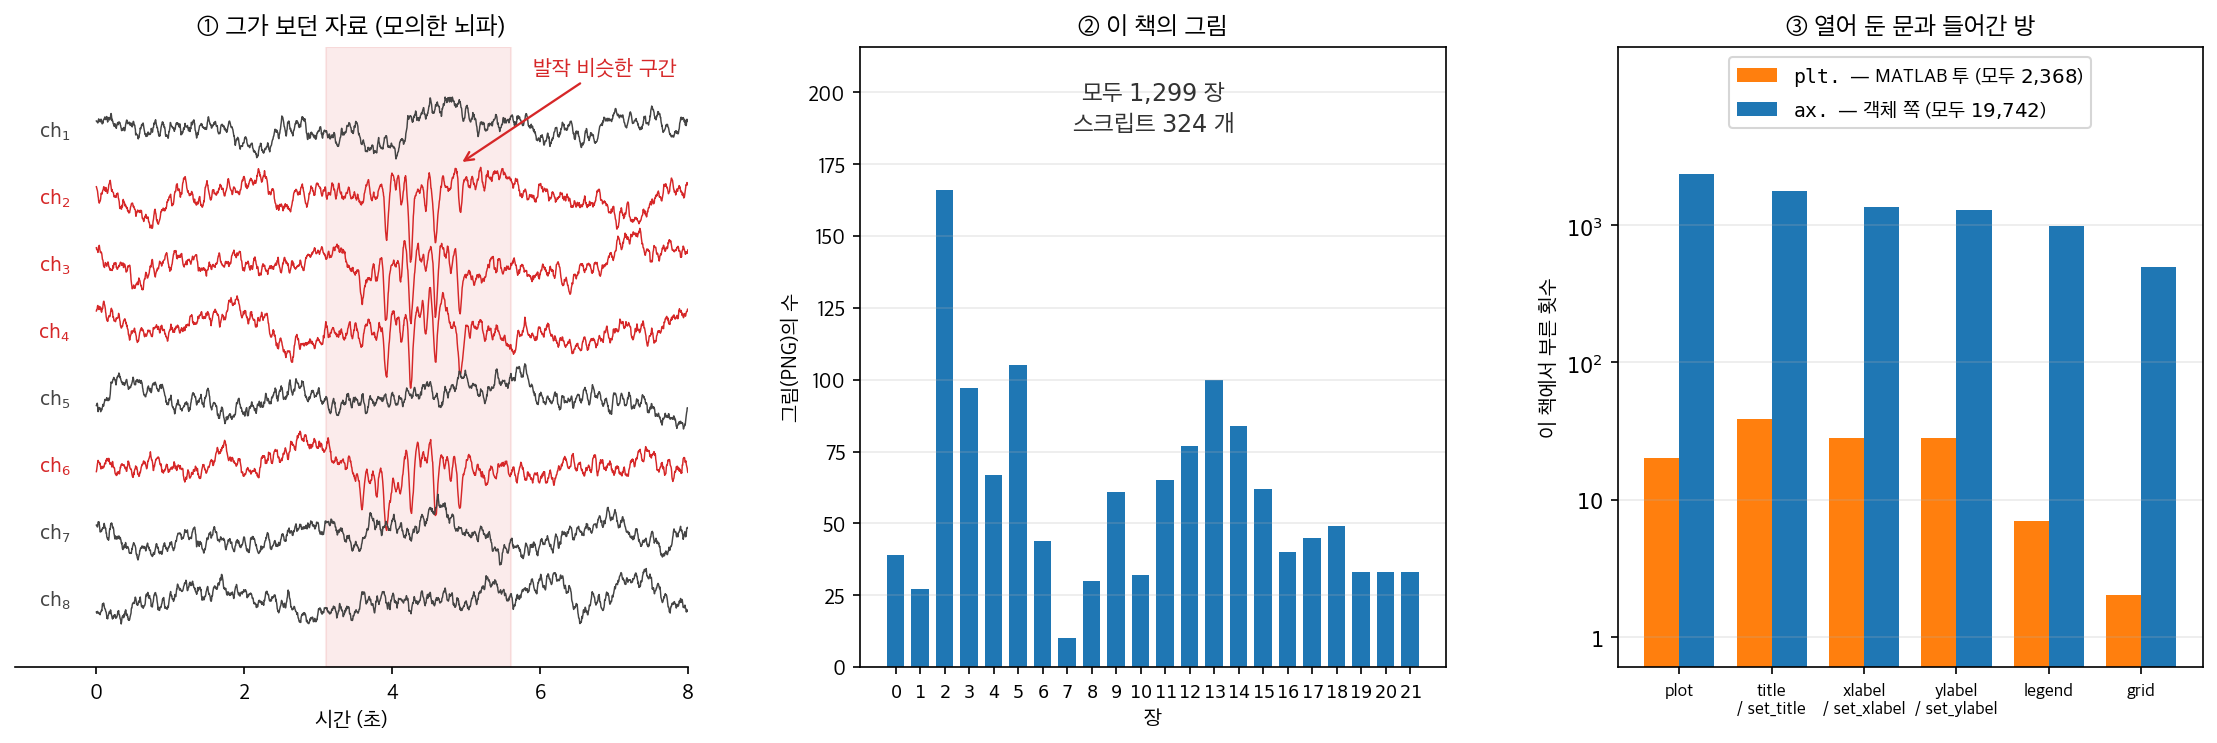
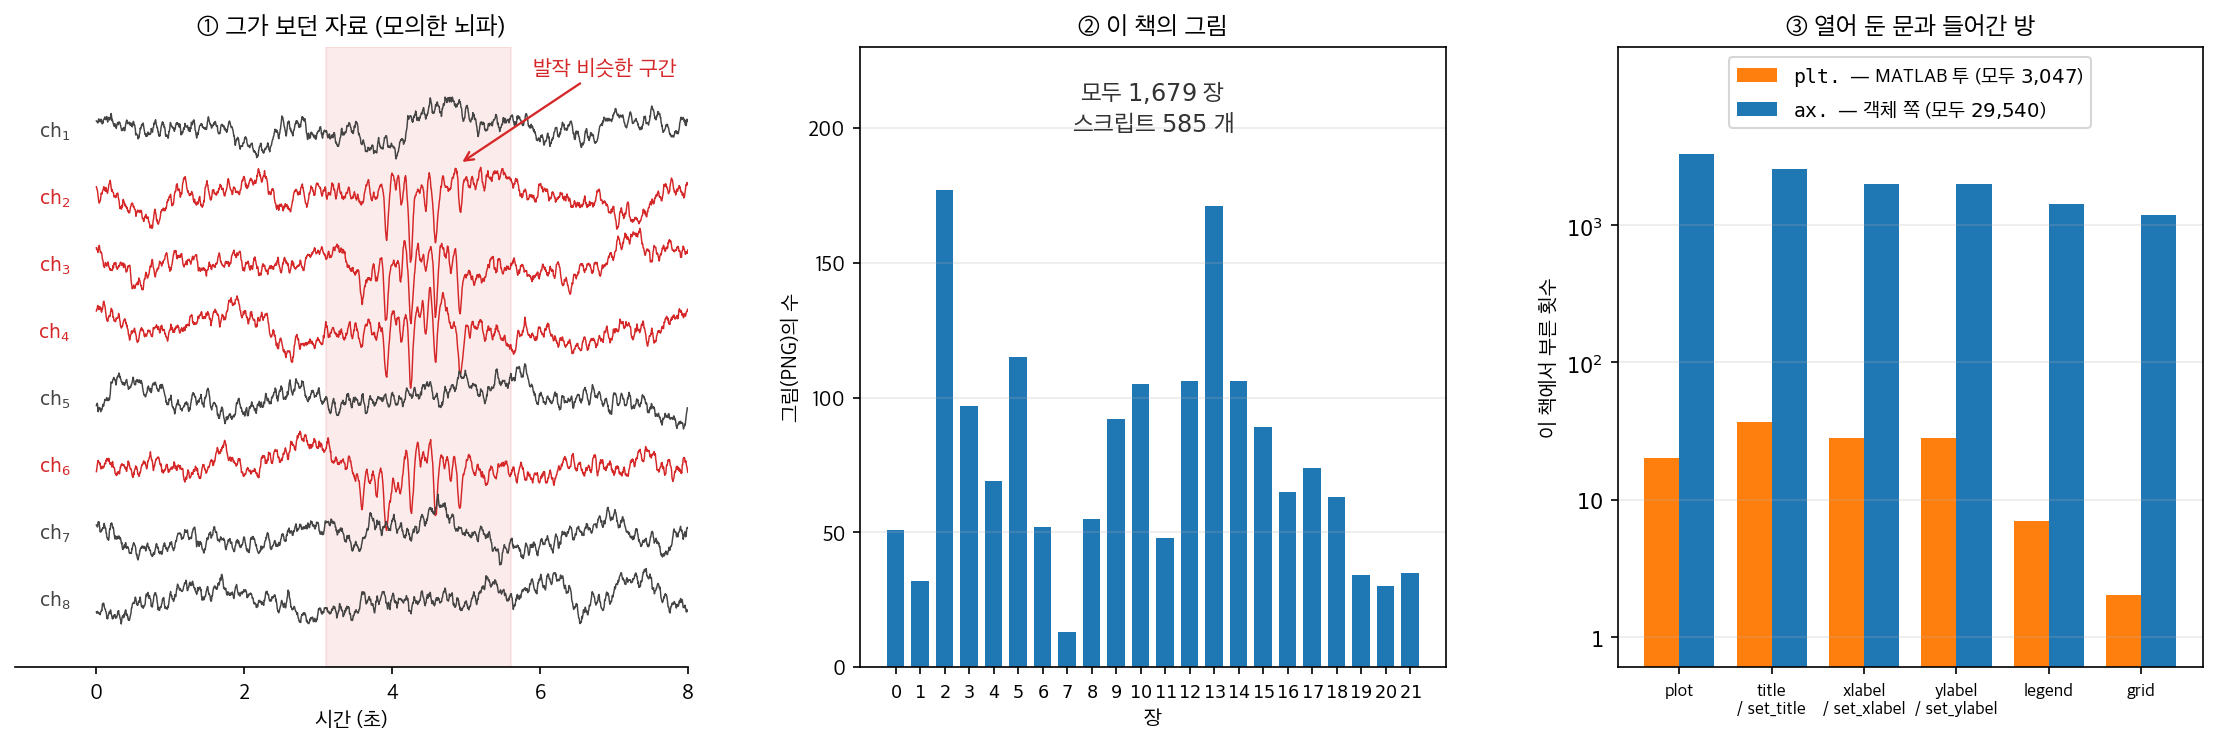
fix(ch00): 보고만 해 두었던 항목을 마무리한다
둘째 정독 패스가 고치지 않고 남긴 항목을 하나씩 판정해 끝냈다. 이미 닫힌 것과 보고가
틀린 것은 건드리지 않았고, 펜스를 고친 쪽은 실제로 돌린 출력을 붙여 verify_outputs 로
맞췄다. 그림을 다시 그린 것은 스크립트와 함께 담았다. 바깥 사실은 확인한 출처로만 고쳤다.

diff --git a/docs/ch00/tools/matplotlib_basics.md b/docs/ch00/tools/matplotlib_basics.md
@@ -83,21 +83,21 @@ Matplotlib에는 두 개의 인터페이스가 있다.
 **프로그램 안에** 띄워야 하고, 그래서 「응용프로그램에 끼워 넣을 수 있을 것」이 요구 조건
 셋째였다.
 
-**②**는 지금 이 책이다. 그림 $1{,}299$ 장을 스크립트 $324$ 개가 그린다. 한 장도
+**②**는 지금 이 책이다. 그림 $1{,}679$ 장을 스크립트 $585$ 개가 그린다. 한 장도
 빠짐없이 그가 만든 것으로 그렸다.
 
 **③**은 위 문단의 약속 — 「이 책은 객체지향 형태만 쓴다」 — 을 실제로 세어 본 것이다.
 
 | | `plt.` 쪽 | `ax.`·`fig.` 쪽 |
 |---|---|---|
-| 모두 | $2{,}368$ | $19{,}742$ |
-| 선 그리기 | $20$ | $2{,}368$ |
-| 제목 | $39$ | $1{,}794$ |
-| 가로 이름표 | $28$ | $1{,}359$ |
+| 모두 | $3{,}047$ | $29{,}540$ |
+| 선 그리기 | $20$ | $3{,}321$ |
+| 제목 | $37$ | $2{,}585$ |
+| 가로 이름표 | $28$ | $2{,}016$ |
 
-객체 쪽이 $8.3$ 배이고, 남은 `plt.` 호출의 **$90.0\%$ 가 틀을 만들고 닫는 것**이다
-(`subplots` $1{,}082$ · `show` $477$ · `close` $259$ · `tight_layout` $254$ ·
-`figure` $60$). 약속이 대체로 지켜졌다 — 위 문단이 적은 셋 말고 `close`·
+객체 쪽이 $9.7$ 배이고, 남은 `plt.` 호출의 **$92.6\%$ 가 틀을 만들고 닫는 것**이다
+(`subplots` $1{,}458$ · `tight_layout` $483$ · `show` $459$ · `close` $353$ ·
+`figure` $67$). 약속이 대체로 지켜졌다 — 위 문단이 적은 셋 말고 `close`·
 `tight_layout`·`figure` 도 섞여 있고, `plt.plot` $20$ 군데처럼 빠진 자리가 조금 남아 있다.
 
 읽을 것은 비율이 아니라 **구조**다. 열어 둔 앞문으로 들어와 안쪽 방에서 일한다 —
@@ -387,6 +387,9 @@ DataFrame은 Matplotlib을 감싼 자체 그림 메서드를 갖고 있다.
     w = stats.ttest_ind(df.loc[df["group"] == "A", "value"],
                         df.loc[df["group"] == "B", "value"], equal_var=False)
     print(f"웰치 t = {w.statistic:.2f}, p = {w.pvalue:.2f}")
+    cnt, edges = np.histogram(df["x"], bins=30)       # 왼쪽 히스토그램과 같은 구간
+    print(f"x 범위 = [{df['x'].min():.2f}, {df['x'].max():.2f}], "
+          f"가장 높은 막대 = {cnt.max()}개")
 
     # ax= 로 그릴 자리를 지정하면 pandas 가 그 Axes 위에 그린다.
     # 이렇게 해야 여러 패널을 한 그림에 모을 수 있다.
@@ -409,6 +412,7 @@ DataFrame은 Matplotlib을 감싼 자체 그림 메서드를 갖고 있다.
     x 와 y 의 상관     = -0.065
     x 와 value 의 상관 = 0.895
     웰치 t = 0.81, p = 0.42
+    x 범위 = [-2.40, 2.00], 가장 높은 막대 = 18개
     ```
 
     ![pandas의 그림 메서드 세 가지](./img/matplotlib_basics_68.png)
@@ -828,7 +832,7 @@ $N(5, 4)$(평균 5, 분산 4)에서 뽑은 표본 1000개의 정규화된 히스
 
     **통계에서 쓰는 곳.**
 
-    - 오른쪽으로 심하게 치우친 자료(소득, 도시 인구, 파일 크기)는 로그 척도에서 대칭에 가까워진다. 로그변환을 하는 근거가 여기 있다.
+    - 오른쪽 왜도(skewness)가 심한 자료(소득, 도시 인구, 파일 크기)는 로그 척도에서 대칭에 가까워진다. 로그변환을 하는 근거가 여기 있다.
     - 생존분석에서 로그 척도의 생존곡선이 직선이면 지수분포(exponential distribution)를 뜻한다.
     - $p$ 값이나 가능도비(likelihood ratio)처럼 자릿수가 여러 개에 걸치는 값은 로그 척도가 사실상 필수다.
 

diff --git a/docs/ch00/linalg_regression/square_matrices/trace_eigenvalues.md b/docs/ch00/linalg_regression/square_matrices/trace_eigenvalues.md
@@ -315,8 +315,9 @@ $$
 $n$ 이 백 배가 되어도 같다. 상대오차를 정하는 것은 $n$ 이 아니라
 $\lVert\mathbf{A}\rVert_F / \operatorname{tr}(\mathbf{A})$ 와 $m$ 이기 때문이고,
 정리 2 로 읽으면 이 비는 **고윳값이 몇 방향에 몰려 있는지**를 재는 수다. 한두
-방향에 몰려 있으면 크고, 여러 방향에 고루 퍼져 있으면 작다. 그리고 **못 만들 만큼
-큰 행렬은 대개 뒤쪽이다** — 이 수법은 필요한 바로 그 자리에서 가장 잘 듣는다.
+방향에 몰려 있으면 크고, 여러 방향에 고루 퍼져 있으면 작다. 그리고 **행렬의 크기는
+이 비에 들어 있지 않다** — 고윳값이 고루 퍼져 있기만 하면 못 만들 만큼 큰 행렬에서도
+같은 탐침 수로 족하다. 이 수법은 필요한 바로 그 자리에서 쓸 수 있다.
 
 **이것이 새 기법이 아니라는 점이 재미있다.** $\S 5$ 의 두 번째 항목은 모자 행렬의
 대각합이 유효 모수 개수라고 적는다. 이 추정량을 처음 적어 둔 허친슨($1989$)의 논문
@@ -689,7 +690,7 @@ $\mathbf{Y} = \mathbf{A}\mathbf{X}$일 때 $\operatorname{tr}(\operatorname{Var}
 
     $\lambda = 0$이면 $\operatorname{tr} = p = 5$로 보통최소제곱과 같고, $\lambda$가 커질수록 값이 줄어 $\lambda \to \infty$에서 0으로 간다.
 
-    이 값을 **유효자유도**라 부른다. 능형회귀는 모수를 $5$개 그대로 두지만 벌점이 각 방향을 $d_j^2/(d_j^2+\lambda)$만큼 축소하므로, 모형이 실제로 쓰는 자유도는 그보다 작다. 특이값이 작은 방향(공선성이 심한 방향)일수록 더 강하게 축소된다는 점도 식에서 바로 읽힌다. 18장에서 이 양이 모형 선택 기준에 쓰인다. $\square$
+    이 값을 **유효자유도**라 부른다. 능형회귀는 모수를 $5$개 그대로 두지만 벌점이 각 방향을 $d_j^2/(d_j^2+\lambda)$만큼 축소하므로, 모형이 실제로 쓰는 자유도는 그보다 작다. 특이값이 작은 방향(공선성이 심한 방향)일수록 더 강하게 축소된다는 점도 식에서 바로 읽힌다. 18장 [능형 자취와 λ 선택](../../../ch18/ridge/lambda_selection.md)에서 이 양이 $\lambda$를 고르는 기준에 쓰인다. $\square$
 
 ---
 

diff --git a/docs/ch00/linalg_regression/square_matrices/orthogonal_projection.md b/docs/ch00/linalg_regression/square_matrices/orthogonal_projection.md
@@ -540,6 +540,10 @@ $\mathbf{M}_1 = \mathbf{I} - \mathbf{H}_1$을 $\mathbf{X}_1$에 대한 잔차생
     print("SSR + SSE =", round(ssr + sse, 6))
     print("R^2 = SSR/SST     =", round(ssr / sst, 6))
     print("R^2 = 1 - SSE/SST =", round(1 - sse / sst, 6))
+
+    # 연습문제 3 의 각: 중심화한 두 벡터 사이 각의 코사인을 내적으로 직접 구한다
+    cos_t = (yt @ yt_hat) / np.sqrt((yt @ yt) * (yt_hat @ yt_hat))
+    print("cos^2(theta)      =", round(cos_t ** 2, 6))
     ```
 
     출력:
@@ -558,9 +562,10 @@ $\mathbf{M}_1 = \mathbf{I} - \mathbf{H}_1$을 $\mathbf{X}_1$에 대한 잔차생
     SSR + SSE = 121.938838
     R^2 = SSR/SST     = 0.85143
     R^2 = 1 - SSE/SST = 0.85143
+    cos^2(theta)      = 0.85143
     ```
 
-    네 성질이 모두 확인된다. 잔차와 적합값의 내적은 반올림 오차 수준에서 0이고, 피타고라스 분해는 원점 기준($158.337856$)과 평균 기준($121.938838$) 양쪽에서 모두 성립한다.
+    네 성질이 모두 확인되고, 중심화한 두 벡터 사이 각에서 직접 구한 $\cos^2\theta$도 $R^2$과 같은 $0.85143$이다. 잔차와 적합값의 내적은 반올림 오차 수준에서 0이고, 피타고라스 분해는 원점 기준($158.337856$)과 평균 기준($121.938838$) 양쪽에서 모두 성립한다.
 
     **두 $R^2$이 다르다.** 원점 기준 값은 $0.885583$이고 보고되는 통상의 $R^2$은 $0.851430$이다. 차이는 $\bar{y} = 1.1015$ 때문이다. $\lVert\mathbf{y}\rVert^2 = \text{SST} + n\bar{y}^2 = 121.938838 + 30 \times 1.1015^2 = 158.34$에서 보듯, 원점 기준 비는 **절편이 공짜로 맞히는 평균 수준까지 설명력으로 세는** 셈이다. $R^2$을 보고할 때는 $\mathbf{1}$ 위로의 사영을 먼저 걷어낸 중심화된 쪽을 쓴다. $\square$
 

diff --git a/docs/ch00/math/limits.md b/docs/ch00/math/limits.md
@@ -248,7 +248,7 @@ $$
   <figcaption markdown>『악타 에루디토룸』 $1690$ 년 $5$ 월호 $222$ 쪽. 가운데 급수 아래 줄에 「$a=20$, $b=1$ 이면 한 해 뒤 $21\frac1{40}$ 보다 크고 $21\frac1{39}$ 보다 작다」가, 이어서 「$a=b$ 이면 $2\frac12 a$ 보다 크고 $3a$ 보다 작다」가 인쇄되어 있다. *(Wikimedia Commons, PD-old-100-expired)*</figcaption>
 </figure>
 
-위 표의 둘째 줄에 적힌 $e$ 는 어디서 왔는가. 원금 $A$ 에 이자를 **한 해에 한 번** 붙이면 잔액에 $(1+i)$ 가 해마다 한 번씩 곱해져 $n$ 년 뒤가 $A(1+i)^{n}$ 이다. 그렇다면 한 해에 두 번, 열두 번, 날마다 붙이면 어떻게 되는가. 이 물음을 끝까지 밀어붙인 쪽이 위의 사진이다.
+위 표의 둘째 줄에 적힌 $e$ 는 어디서 왔는가. 원금 $A$ 에 이자를 **한 해에 한 번** 붙이면 잔액에 $(1+i)$ 가 해마다 한 번씩 곱해져 $t$ 년 뒤가 $A(1+i)^{t}$ 이다. 그렇다면 한 해에 두 번, 열두 번, 날마다 붙이면 어떻게 되는가. 이 물음을 끝까지 밀어붙인 쪽이 위의 사진이다.
 
 $1690$ 년 $5$ 월 라이프치히에서 나온 학술지 『악타 에루디토룸』에 바젤의 **야코프 베르누이**가 「이자에 관한 몇 가지 물음」(*Quaestiones nonnullae de usuris*)을 실었다. 그 $222$ 쪽에서 그는 이렇게 묻는다 — 돈을 빌려 주되 **매 순간** 한 해 이자의 비례분을 원금에 얹기로 하면, 한 해가 끝날 때 얼마를 받는가. 원금을 $a$, 한 해 이자를 $b$ 라 두고 답을 무한급수로 펼친 다음, 그 급수를 등비급수와 견주어 위아래에서 막았다. 바로 앞 상자의 기하급수가 막는 도구로 쓰인 자리다.
 

diff --git a/docs/ch00/tools/pandas_basics.md b/docs/ch00/tools/pandas_basics.md
@@ -433,7 +433,7 @@ pandas에서 가장 강력한 하나의 패턴이다.
 > **「나는 $2008$ 년 $4$ 월에 팬더스를 만들기 시작했다. 그것은 주로 밤과 주말에 내가
 > 개발한 뒷방 작업으로 시작되었다.」**
 
-그러고는 자기가 만든 것의 내부를 열한 가지로 흠잡는데, 그 가운데 「메모리 사용과 램
+그러고는 자기가 만든 것의 내부를 열한 가지로 흠잡는데(제목은 열 가지지만 그 자신이 「열 가지, 실은 열한 가지」라 적어 둔다), 그 가운데 「메모리 사용과 램
 관리에 대한 투명성 부족」을 두고 근사를 하나 적는다.
 
 > **「팬더스에 대한 내 근사는, 자료 크기의 $5$ 배에서 $10$ 배에 해당하는 램을 갖고
@@ -467,7 +467,7 @@ _확인한 곳 — Wes McKinney, *Apache Arrow and the "10 Things I Hate About p
 ($2017$, wesmckinney.com). 인용한 두 문장($2008$ 년 $4$ 월에 밤과 주말의 뒷방 작업으로
 시작했다는 것, 자료 크기의 $5$–$10$ 배 램이라는 근사)과 $10$ GB 자료에 $64$–$128$ GB 를
 든 예, 그리고 그가 꼽은 흠 가운데 「메모리 사용과 램 관리에 대한 투명성 부족」이 거기
-있다. 팬더스라는 이름의 유래는 확인하지 못해 적지 않았다. 그림과 표의 수는 모두 직접
+있다. 흠을 「The 10 (really 11) things」라 적고 열한 개를 늘어놓는 것도 같은 글에서 확인했다. 팬더스라는 이름의 유래는 확인하지 못해 적지 않았다. 그림과 표의 수는 모두 직접
 재어 계산한 값이며, ②의 상주 메모리는 기계와 할당기에 따라 달라진다_
 
 </div>

diff --git a/docs/ch00/math/linear_algebra.md b/docs/ch00/math/linear_algebra.md
@@ -599,7 +599,7 @@ $\operatorname{Cov}(\mathbf{A}\mathbf{X}) = \mathbf{A}\,\operatorname{Cov}(\math
 
     동일가중 포트폴리오의 표준편차 $0.1758$은 개별 표준편차의 평균 $0.3$보다 훨씬 작다. **이것이 분산투자다.** 비대각 성분이 작거나 음수라서 포트폴리오 표준편차 $\sqrt{\mathbf{w}^\top\boldsymbol{\Sigma}\mathbf{w}}$가 개별 표준편차의 가중평균보다 작아지는 것이다. 상관이 모두 $1$이면 둘이 같아진다.
 
-    최소분산 포트폴리오는 여기서 더 나아가 $0.1563$까지 낮추는데, 변동성이 가장 낮은 첫 자산에 가장 큰 비중($0.57$)을 준다. 상관이 완전하다면($\rho = 1$) 비대각 성분이 커져 이런 이득이 사라진다. 위기 때 상관이 $1$로 몰리면서 분산투자 효과가 증발하는 현상이 바로 이 계산에 들어 있다.
+    최소분산 포트폴리오는 여기서 더 나아가 $0.1563$까지 낮추는데, 변동성이 가장 낮은 첫 자산에 가장 큰 비중($0.57$)을 준다. 공매도 없이 비중을 모두 양수로 두는 한, 상관이 완전하다면($\rho = 1$) 비대각 성분이 커져 이런 이득이 사라진다(공매도를 허용하면 $\boldsymbol{\Sigma}$가 특이해져 분산을 $0$까지 낮추는 조합이 생기지만, 그것은 분산투자가 아니라 헤지다). 위기 때 상관이 $1$로 몰리면서 분산투자 효과가 증발하는 현상이 바로 이 계산에 들어 있다.
 
 <div class="drillbox" markdown>
 

diff --git a/docs/index.md b/docs/index.md
@@ -41,10 +41,10 @@
 - 정의, 정리, 주의, 보기는 색이 있는 상자로 구분해 표시한다
 - 그 밖에 **연재 상자**가 둘 있다. 쪽마다 하나 이상 들어 있고, 증명과 문항의 흐름
   **밖에** 놓이므로 건너뛰어도 본문을 따라가는 데 지장이 없다
-    - **「그림으로 보는 통계학」**(호박색·점선 테두리, $401$ 개) --- 바로 위에서 세운
+    - **「그림으로 보는 통계학」**(호박색·점선 테두리, $403$ 개) --- 바로 위에서 세운
       정의나 정리가 **세상에서 어떻게 생겼는지**를 보인다. 그 식이 처음 인쇄된 쪽,
       그것을 적은 사람, 그 수가 실제로 쓰인 자리, 또는 그 주장을 직접 재어 본 결과다
-    - **「AI로 보는 통계학」**(청록색·왼쪽 띠, $224$ 개) --- 같은 식이 오늘 기계를
+    - **「AI로 보는 통계학」**(청록색·왼쪽 띠, $223$ 개) --- 같은 식이 오늘 기계를
       학습시키는 자리에서 어떻게 쓰이는지를 보인다
     - 상자의 번호는 **쪽마다 1 부터 다시 시작한다.** 다른 쪽의 상자를 가리킬 때는
       절과 쪽을 함께 적는다

diff --git a/docs/ch00/linalg_regression/linalg_statistics/chi_squared_quadratic.md b/docs/ch00/linalg_regression/linalg_statistics/chi_squared_quadratic.md
@@ -494,7 +494,7 @@ $\mathbf{z} \sim N(\boldsymbol{\mu}, \boldsymbol{\Sigma})$이고 $\mathbf{A}$가
 
     **이 한 문제에 이 절의 내용이 모두 들어 있다.** $\mathbf{A}$와 $\mathbf{M}$이 대칭 멱등이라 각 이차형식이 카이제곱이 되고(계수 $2$와 $17$), $\mathbf{A}\mathbf{M} = \mathbf{O}$이라 크레이그 정리에 의해 둘이 독립이며, 독립인 두 카이제곱을 자유도로 나눈 비가 $F$ 분포의 정의다.
 
-    $F$ 검정이 성립하려면 세 가지가 모두 필요하다는 점에 유의하라. 정규성(normality, 카이제곱이 되려면), 멱등성(고윳값의 가중합이 카이제곱 하나로 접히려면), 직교성(독립이 되려면). 하나라도 깨지면 $F$ 분포는 근사에 지나지 않는다. $\square$
+    $F$ 검정이 성립하려면 세 가지가 모두 필요하다는 점에 유의하라. 카이제곱이 되려면 정규성(normality)이, 고윳값의 가중합이 카이제곱 하나로 접히려면 멱등성이, 독립이 되려면 직교성이 있어야 한다. 하나라도 깨지면 $F$ 분포는 근사에 지나지 않는다. $\square$
 
 ---
 

diff --git a/docs/ch00/tools/python_basics.md b/docs/ch00/tools/python_basics.md
@@ -850,7 +850,7 @@ def collect(x, acc=[]):
     합은 같은가: True
     ```
 
-    리스트는 $8$ MB를 쓰는데 제너레이터는 $200$ 바이트다. 제너레이터는 값을 저장하지 않고 **다음 값을 만드는 방법**만 들고 있다가 요청받을 때마다 하나씩 내놓는다.
+    리스트는 $8$ MB를 쓰는데 제너레이터는 $200$ 바이트다. 그나마 이 $8$ MB는 `getsizeof`가 리스트 객체 자신, 곧 원소를 가리키는 포인터 배열만 센 값이다. 포인터가 가리키는 정수 객체 백만 개가 따로 원소마다 $28$–$32$ 바이트, 합쳐 약 $32$ MB를 더 쓰므로(`sum(sys.getsizeof(v) for v in lst)` 로 재면 $31.9$ MB) 리스트가 실제로 차지하는 메모리는 그 다섯 배쯤이다. 제너레이터는 값을 저장하지 않고 **다음 값을 만드는 방법**만 들고 있다가 요청받을 때마다 하나씩 내놓는다.
 
     **어느 쪽을 쓸 것인가.**
 

diff --git a/docs/ch00/linalg_regression/square_matrices/symmetric.md b/docs/ch00/linalg_regression/square_matrices/symmetric.md
@@ -148,7 +148,7 @@ $$
 
 ### 레일리 몫
 
-고윳값이 $\lambda_1 \le \cdots \le \lambda_n$인 대칭행렬 $\mathbf{A}$에 대해 **레일리 몫** $R(\mathbf{x}) = \mathbf{x}^\top \mathbf{A}\mathbf{x} / \mathbf{x}^\top\mathbf{x}$는
+고윳값이 $\lambda_1 \le \cdots \le \lambda_n$인 대칭행렬 $\mathbf{A}$에 대해(위의 공분산 보기는 큰 것부터 번호를 붙였지만, 이 절과 연습문제 1 은 작은 것부터 붙인다) **레일리 몫** $R(\mathbf{x}) = \mathbf{x}^\top \mathbf{A}\mathbf{x} / \mathbf{x}^\top\mathbf{x}$는
 
 $$
 \lambda_1 = \min_{\mathbf{x} \ne \mathbf{0}} R(\mathbf{x}), \qquad \lambda_n = \max_{\mathbf{x} \ne \mathbf{0}} R(\mathbf{x})
